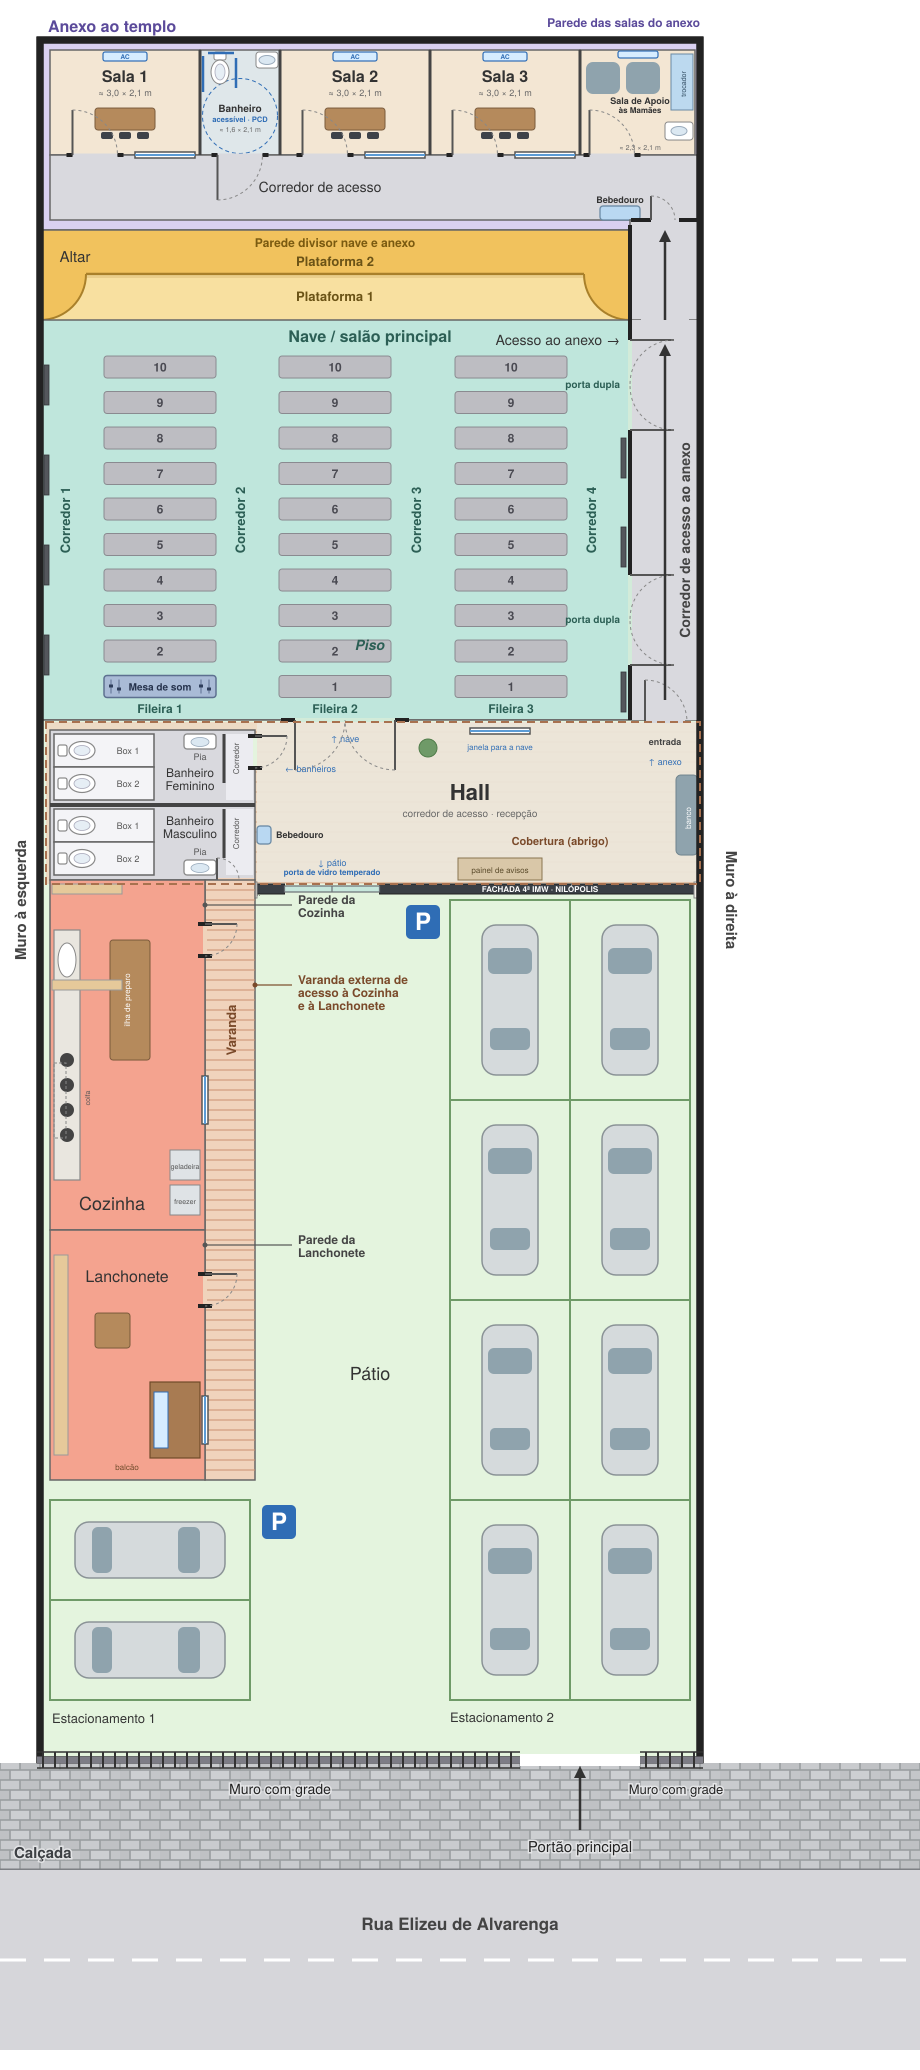
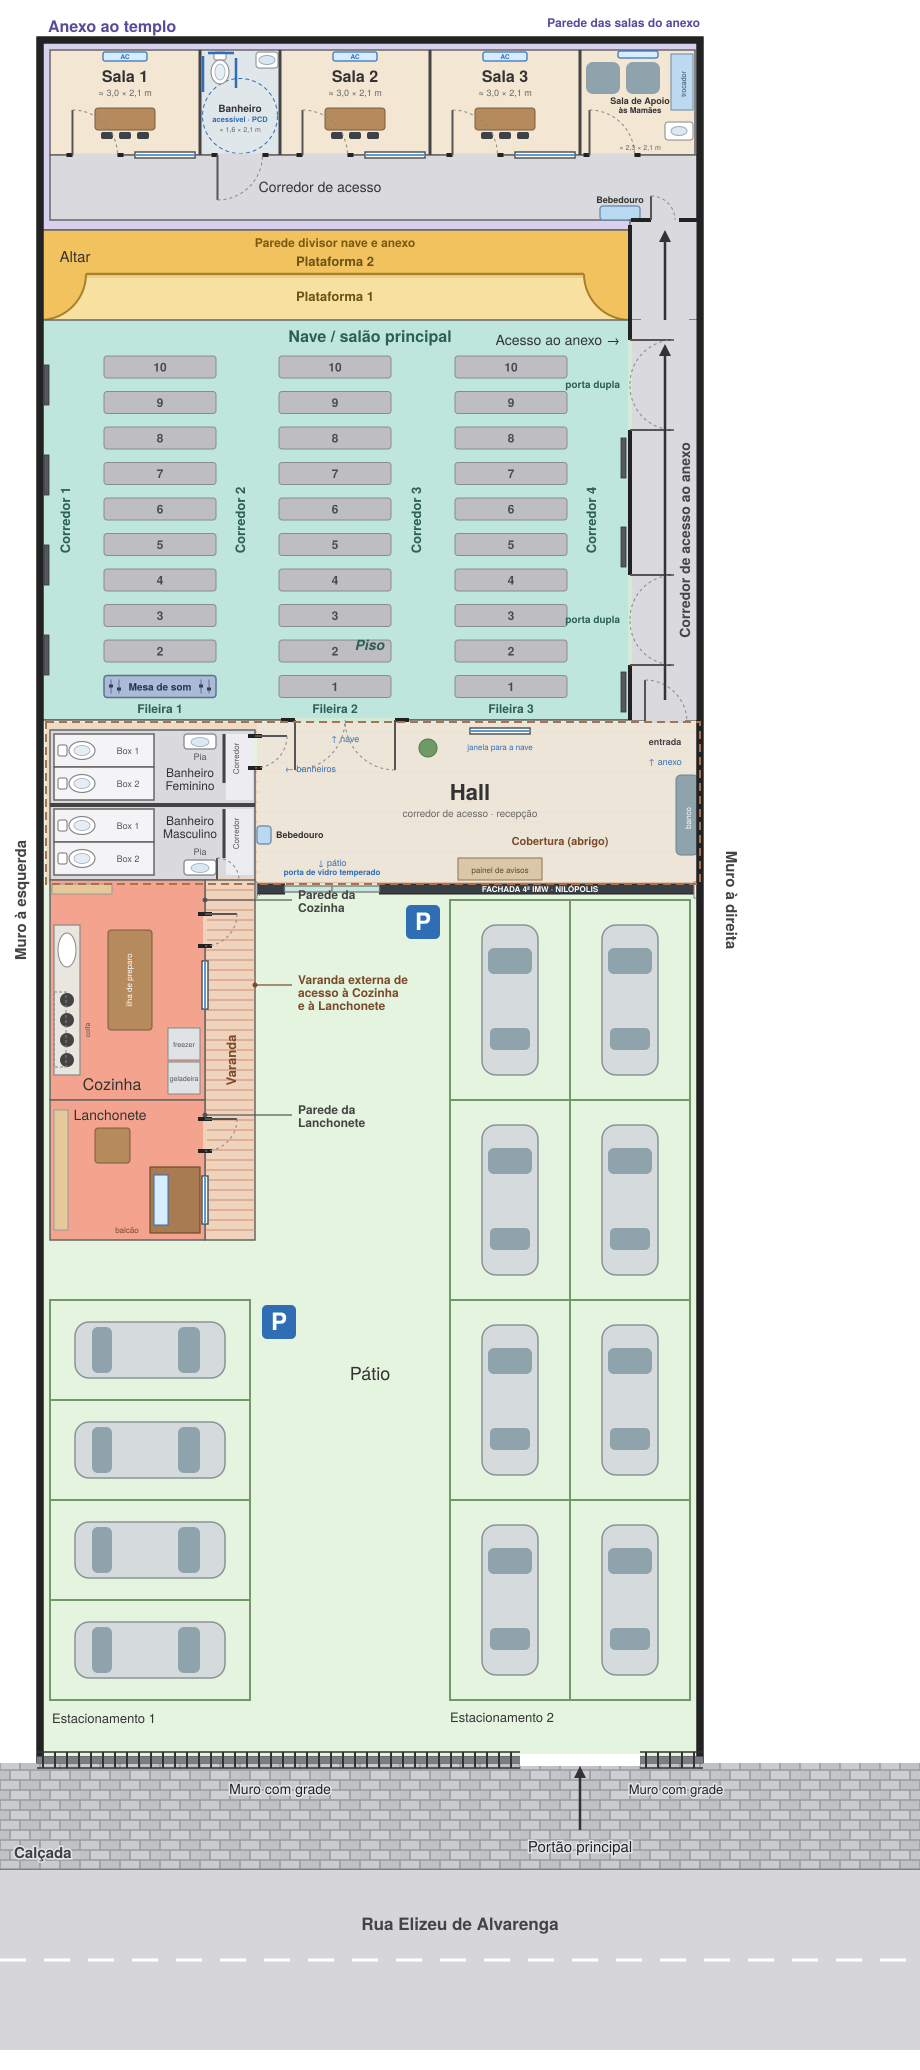
Maquete 3: Cozinha e Lanchonete menores; Estacionamento 1 com 4 vagas
Claude-Session: https://claude.ai/code/session_015gh4tS64wXyJ2ghbw66cFX

diff --git a/projeto3/maquete.html b/projeto3/maquete.html
@@ -56,7 +56,7 @@
 <div id="app">
   <div id="stage"><canvas id="c"></canvas></div>
   <aside id="side">
-    <div class="top"><h1>Maquete 3 · Visão 3D</h1><p>Pátio com 2 ambientes: Cozinha (maior) e Lanchonete</p></div>
+    <div class="top"><h1>Maquete 3 · Visão 3D</h1><p>Pátio com 2 ambientes menores (Cozinha e Lanchonete) e Estacionamento 1 com 4 vagas</p></div>
     <div class="tools">
   <button id="tRoof" class="on">Telhado</button>
   <button id="tLabels" class="on">Nomes</button>
@@ -696,17 +696,17 @@
   // ---------- Banheiros (box, vasos, pia, corredor) e Salas externas ----------
   rect(50, 730, 255, 880, 0.0, 0.1, C.bath, { cast: false });                // PROJETO 2: banheiros (trocados de lugar com a Sala de Apoio)
   rect(255, 722, 700, 884, 0.0, 0.1, 0xe3ddd0, { cast: false });                // PROJETO 2: Hall (corredor grande aberto, porcelanato claro)
-  rect(205, 880, 255, 1480, 0.0, 0.08, C.varanda, { cast: false });         // piso da varanda (PROJETO 2: prolongada até a Cantina)
-  rect(50, 880, 205, 1230, 0.0, 0.1, C.salaExt, { cast: false });            // MAQUETE 3: Cozinha (maior)
-  rect(50, 1230, 205, 1480, 0.0, 0.1, C.salaExt, { cast: false });           // MAQUETE 3: Lanchonete
+  rect(205, 880, 255, 1240, 0.0, 0.08, C.varanda, { cast: false });         // piso da varanda (PROJETO 2: prolongada até a Cantina)
+  rect(50, 880, 205, 1100, 0.0, 0.1, C.salaExt, { cast: false });            // MAQUETE 3: Cozinha (maior que a Lanchonete)
+  rect(50, 1100, 205, 1240, 0.0, 0.1, C.salaExt, { cast: false });           // MAQUETE 3: Lanchonete
   hwall(730, 50, 255, BH, [], 'HALF');   // paredes dos banheiros: mesmo azul claro das salas externas
   hwall(880, 50, 205, BH, [], 'HALF'); hwall(880, 205, 255, BH, [{ a: 207, b: 253, lh: 2.1 }], 'HALF');      // paredes das salas externas: azul mais claro
-  hwall(1230, 50, 205, BH, [], 'HALF'); hwall(1480, 50, 205, BH, [], 'HALF');   // MAQUETE 3: Cozinha e Lanchonete
-  vwall(50, 730, 880, BH, [], 'HALF'); vwall(50, 880, 1480, BH, [], 'HALF');
+  hwall(1100, 50, 205, BH, [], 'HALF'); hwall(1240, 50, 205, BH, [], 'HALF');   // MAQUETE 3: Cozinha e Lanchonete
+  vwall(50, 730, 880, BH, [], 'HALF'); vwall(50, 880, 1240, BH, [], 'HALF');
   vwall(255, 730, 880, BH, [{ a: 745, b: 790, lh: 2.1 }], 'HALF');   // PROJETO 2: porta da Sala de Apoio às Mamães   // portas: Feminino (cima) / Masculino (baixo)
 
-  vwall(205, 880, 1480, BH, [door(940), win(1100), door(1290), win(1420)], 'HALF');   // MAQUETE 3: portas e janelas da Cozinha e da Lanchonete (lado da varanda)
-  [940, 1290].forEach(function(c){ doorLeaf(false, 205, c); }); [1100, 1420].forEach(function(c){ winFrame(false, 205, c); });   // portas das salas externas + janela da Sala 2 externo (lado da varanda)
+  vwall(205, 880, 1240, BH, [door(930), win(985), door(1135), win(1200)], 'HALF');   // MAQUETE 3: portas e janelas da Cozinha e da Lanchonete (lado da varanda)
+  [930, 1135].forEach(function(c){ doorLeaf(false, 205, c); }); [985, 1200].forEach(function(c){ winFrame(false, 205, c); });   // portas das salas externas + janela da Sala 2 externo (lado da varanda)
   // ---- PROJETO 2: HALL (x410..590, y730..880), no lugar da antiga Sala de Apoio; acesso aberto pelo saguão ----
   winFrame(true, 720, 500);   // Hall aberto: sem paredes divisórias; janela na parede da nave
   // ---- PROJETO 2: banheiros iguais aos da IGREJA ATUAL (Feminino y730..805 / Masculino y805..880) ----
@@ -805,21 +805,21 @@
 
   // ---------- MAQUETE 3: interior da Cozinha (maior) e da Lanchonete ----------
   (function(){
-    // Cozinha (y880..1230): bancada longa com pia e fogão + coifa (parede oeste), geladeira, ilha de preparo, prateleiras
-    box(0.5, 0.9, 250 * S, 0xe9e6df, X(67), 0.45 + 0.08, Z(1055));
-    box(0.52, 0.04, 250 * S, 0xb9bcbe, X(67), 0.98, Z(1055));
-    var pia = new THREE.Mesh(new THREE.BoxGeometry(0.4, 0.08, 0.7), mat(0xc9ced3, { metalness: 0.6, roughness: 0.3 })); pia.position.set(X(67), 1.0, Z(960)); root.add(pia);
-    [1060, 1085, 1110, 1135].forEach(function(py, n){ var b = new THREE.Mesh(new THREE.CylinderGeometry(0.11, 0.11, 0.03, 16), mat(0x2b2e32)); b.position.set(X(67), 1.01, Z(py)); root.add(b); });
-    box(0.5, 0.35, 1.5, 0xb9bcbe, X(67), 2.05, Z(1098)); box(0.2, 0.5, 0.3, 0xb9bcbe, X(60), 2.4, Z(1098));
-    [905, 1000].forEach(function(py){ box(0.3, 0.7, 70 * S, 0xe6c99a, X(58), 1.95, Z(py)); });
-    box(0.7, 1.8, 0.7, 0xdfe3e6, X(185), 0.98, Z(1200)); box(0.7, 1.8, 0.7, 0xdfe3e6, X(185), 0.98, Z(1165));
-    box(0.9, 0.06, 2.4, 0xb58a5c, X(130), 0.92, Z(1060)); [-0.4, 0.4].forEach(function(o){ [-1.1, 1.1].forEach(function(p){ box(0.05, 0.9, 0.05, 0xdad7d0, X(130) + o, 0.47, Z(1060) + p); }); });
-    box(0.9, 0.04, 2.4, 0xdad7d0, X(130), 0.3, Z(1060));
-    // Lanchonete (y1230..1480): balcão de atendimento junto à janela, vitrine, prateleiras, mesa
-    box(1.0, 1.05, 76 * S, 0xa87b52, X(175), 0.6, Z(1420)); box(1.1, 0.05, 80 * S, 0xf4f2ec, X(175), 1.15, Z(1420));
-    box(0.5, 0.6, 0.9, 0xd6ecff, X(168), 1.45, Z(1420), null, { material: new THREE.MeshStandardMaterial({ color: 0xcfe6f3, transparent: true, opacity: 0.45, roughness: 0.1 }), cast: false });
-    box(0.35, 1.9, 200 * S, 0xe6c99a, X(61), 1.0, Z(1355)); [0.5, 1.0, 1.5].forEach(function(hh){ box(0.4, 0.04, 200 * S, 0xc9a87c, X(61), hh + 0.1, Z(1355)); });
-    box(0.7, 0.85, 0.7, 0xb58a5c, X(112), 0.5, Z(1330));
+    // Cozinha (y880..1100): bancada com pia e fogão + coifa (parede oeste), geladeira e freezer, ilha de preparo, armários altos
+    box(0.5, 0.9, 150 * S, 0xe9e6df, X(67), 0.45 + 0.08, Z(1000));
+    box(0.52, 0.04, 150 * S, 0xb9bcbe, X(67), 0.98, Z(1000));
+    var pia = new THREE.Mesh(new THREE.BoxGeometry(0.4, 0.08, 0.7), mat(0xc9ced3, { metalness: 0.6, roughness: 0.3 })); pia.position.set(X(67), 1.0, Z(950)); root.add(pia);
+    [1000, 1020, 1040, 1060].forEach(function(py, n){ var b = new THREE.Mesh(new THREE.CylinderGeometry(0.11, 0.11, 0.03, 16), mat(0x2b2e32)); b.position.set(X(67), 1.01, Z(py)); root.add(b); });
+    box(0.5, 0.35, 1.2, 0xb9bcbe, X(67), 2.05, Z(1030)); box(0.2, 0.5, 0.3, 0xb9bcbe, X(60), 2.4, Z(1030));
+    [945, 1000].forEach(function(py){ box(0.3, 0.7, 50 * S, 0xe6c99a, X(58), 1.95, Z(py)); });
+    box(0.7, 1.8, 0.7, 0xdfe3e6, X(185), 0.98, Z(1080)); box(0.7, 1.8, 0.7, 0xdfe3e6, X(185), 0.98, Z(1045));
+    box(0.9, 0.06, 2.0, 0xb58a5c, X(130), 0.92, Z(990)); [-0.4, 0.4].forEach(function(o){ [-0.9, 0.9].forEach(function(p){ box(0.05, 0.9, 0.05, 0xdad7d0, X(130) + o, 0.47, Z(990) + p); }); });
+    box(0.9, 0.04, 2.0, 0xdad7d0, X(130), 0.3, Z(990));
+    // Lanchonete (y1100..1240): balcão de atendimento junto à janela, vitrine, prateleiras, mesa
+    box(1.0, 1.05, 66 * S, 0xa87b52, X(175), 0.6, Z(1200)); box(1.1, 0.05, 70 * S, 0xf4f2ec, X(175), 1.15, Z(1200));
+    box(0.5, 0.6, 0.9, 0xd6ecff, X(168), 1.45, Z(1200), null, { material: new THREE.MeshStandardMaterial({ color: 0xcfe6f3, transparent: true, opacity: 0.45, roughness: 0.1 }), cast: false });
+    box(0.35, 1.9, 120 * S, 0xe6c99a, X(61), 1.0, Z(1170)); [0.5, 1.0, 1.5].forEach(function(hh){ box(0.4, 0.04, 120 * S, 0xc9a87c, X(61), hh + 0.1, Z(1170)); });
+    box(0.7, 0.85, 0.7, 0xb58a5c, X(112), 0.5, Z(1145));
   })();
 
   // ---------- Estacionamentos ----------
@@ -866,11 +866,11 @@
     board.position.set(X(xpx), 2.1, Z(ypx) + 0.06); root.add(board);
     var back = board.clone(); back.rotation.y = Math.PI; back.position.z = Z(ypx) - 0.06; root.add(back);
   }
-  // Estacionamento 1: 5 vagas horizontais (frente para a direita)
-  for (var i = 0; i <= 2; i++) line(50, 1500 + i * 100, 250, 1500 + i * 100);   // PROJETO 2: só 2 vagas (Cozinha e Cantina ocupam o restante)
-  line(50, 1500, 50, 1700); line(250, 1500, 250, 1700);
-  for (var r = 0; r < 2; r++) car(150, 1500 + r * 100 + 50, 0);
-  pSign(279, 1522);
+  // Estacionamento 1: MAQUETE 3: 4 vagas horizontais (frente para a direita), y1300..1700
+  for (var i = 0; i <= 4; i++) line(50, 1300 + i * 100, 250, 1300 + i * 100);
+  line(50, 1300, 50, 1700); line(250, 1300, 250, 1700);
+  for (var r = 0; r < 4; r++) car(150, 1300 + r * 100 + 50, 0);
+  pSign(279, 1322);
   // Estacionamento 2: 8 vagas verticais (4 fileiras x 2), frente para a nave (deslocado para trás: começa em y=900)
   for (var j = 0; j <= 4; j++) line(450, 900 + j * 200, 690, 900 + j * 200);
   [450, 570, 690].forEach(function(xv){ line(xv, 900, xv, 1700); });
@@ -909,11 +909,11 @@
     var slab = new THREE.Mesh(new THREE.BoxGeometry(155 * S, 0.16, 300 * S), mat(C.slab));
     slab.position.set(X(127.5), BH + 0.08, Z(1030)); slab.castShadow = true; roofGroup.add(slab);
     // PROJETO 2: laje da Cozinha/Cantina e prolongamento da varanda
-    var slab2 = new THREE.Mesh(new THREE.BoxGeometry(155 * S, 0.16, 300 * S), mat(C.slab));
-    slab2.position.set(X(127.5), BH + 0.08, Z(1330)); slab2.castShadow = true; roofGroup.add(slab2);
-    var van2 = new THREE.Mesh(new THREE.BoxGeometry(Math.sqrt((50 * S) * (50 * S) + 0.4 * 0.4), 0.1, 300 * S), ribMat(300 * S / 0.35, 1, true));
-    van2.rotation.z = -Math.atan(0.4 / (50 * S)); van2.position.set(X(230), BH - 0.15, Z(1330)); van2.castShadow = true; van2.receiveShadow = true; roofGroup.add(van2);
-    [1325, 1475].forEach(function(py){ box(0.14, BH - 0.4, 0.14, C.trim, X(252), (BH - 0.4) / 2, Z(py), roofGroup); });
+    var slab2 = new THREE.Mesh(new THREE.BoxGeometry(155 * S, 0.16, 60 * S), mat(C.slab));
+    slab2.position.set(X(127.5), BH + 0.08, Z(1210)); slab2.castShadow = true; roofGroup.add(slab2);
+    var van2 = new THREE.Mesh(new THREE.BoxGeometry(Math.sqrt((50 * S) * (50 * S) + 0.4 * 0.4), 0.1, 60 * S), ribMat(60 * S / 0.35, 1, true));
+    van2.rotation.z = -Math.atan(0.4 / (50 * S)); van2.position.set(X(230), BH - 0.15, Z(1210)); van2.castShadow = true; van2.receiveShadow = true; roofGroup.add(van2);
+    [1237].forEach(function(py){ box(0.14, BH - 0.4, 0.14, C.trim, X(252), (BH - 0.4) / 2, Z(py), roofGroup); });
     // cobertura (telhado) sobre os 2 banheiros e o acesso ao bebedouro: abrigo antes da nave (cai para frente)
     var cw = (700 - 46) * S, cd = (884 - 722) * S, drop = 0.35;
     var cob = new THREE.Mesh(new THREE.BoxGeometry(cw, 0.1, Math.sqrt(cd * cd + drop * drop)), ribMat(cw / 0.35, 1));
@@ -936,7 +936,7 @@
       for (var i = 1; i < n; i++){ var f = -0.5 + i / n; bar(bx, h, 0.012, f * w, 0); bar(w, bx, 0.012, 0, f * h); }
       for (var k = 0; k < n; k++){ var q = -0.5 + (k + 0.5) / n; box(0.05, 0.05, 0.016, white, horiz ? X(c) + q * w : X(fixed) + off, y0 + h / 2 + q * h * 0, horiz ? Z(fixed) + off : Z(c) + q * w, null, { cast: false }); }   // detalhes de cruzamento
     }
-    grille(false, 205, 1100, 0.13); grille(false, 205, 1420, 0.13);   // MAQUETE 3: janelas da Cozinha e da Lanchonete
+    grille(false, 205, 985, 0.13); grille(false, 205, 1200, 0.13);   // MAQUETE 3: janelas da Cozinha e da Lanchonete
     // split (ar-condicionado) na parede; rot = direção da frente
     function split(x, y, z, rot){
       var g = new THREE.Group();
@@ -994,7 +994,7 @@
     });
     [380, 520, 650].forEach(function(py){ lamp(665, py, 0.9, 0.22); });   // PROJETO 2: corredor
     // salas externas 1 e 2
-    isopor(50, 880, 205, 1230); isopor(50, 1230, 205, 1480);
+    isopor(50, 880, 205, 1100); isopor(50, 1100, 205, 1240);
     lampRound(127, 955); lampRound(127, 1105); lampRound(127, 1255); lampRound(127, 1405);
     // banheiros (feminino e masculino)
     isopor(50, 730, 255, 880); isopor(255, 722, 700, 884);   // PROJETO 2: banheiros e Hall
@@ -1040,8 +1040,8 @@
   label('Mesa de som', 160, 687, 1.7, 2.4);
   label('Acesso ao anexo', 665, 270, 6.2, 3.2); label('Corredor de acesso ao anexo', 665, 520, 3.4, 3.4);
   label('Hall', 470, 805, 3.0, 1.8); label('Fachada 4ª IMW', 500, 925, 3.6, 3.0); label('Banheiro Feminino', 120, 767, 3.6, 3.0); label('Banheiro Masculino', 120, 842, 3.6, 3.0);
-  label('Varanda', 230, 1130, 3.4, 1.6);
-  label('Cozinha', 127, 1055, 3.1, 1.9); label('Lanchonete', 127, 1355, 3.4, 1.9);
+  label('Varanda', 230, 1060, 3.4, 1.6);
+  label('Cozinha', 127, 1000, 3.1, 1.9); label('Lanchonete', 127, 1170, 3.4, 1.9);
   label('Cobertura (abrigo)', 332, 790, 3.7, 3.0);
   label('Bebedouro', 375, 800, 2.0, 2.0);
   label('Estacionamento 1', 150, 1680, 2.2, 3.0); label('Estacionamento 2', 570, 1735, 2.2, 3.0);
@@ -1062,7 +1062,7 @@
     { id: 'forro',   name: 'Forro e luzes',   pos: [0, 1.6, -5], tgt: [0, 2.7, -12], roof: true, labels: false, fp: true },
     { id: 'corredor', name: 'Corredor (anexo)', pos: [5.9, 1.65, -4.4], tgt: [5.9, 1.5, -13.4], roof: false, labels: false, fp: true },
     { id: 'naveal',  name: 'Nave de cima',    pos: [1.5, 15, -2], tgt: [1.5, 0, -8.5], roof: false, labels: true },
-    { id: 'cantina', name: 'Cozinha e Lanchonete', pos: [-3.6, 15, 11.2], tgt: [-3.6, 0, 6.2], roof: false, labels: true },
+    { id: 'cantina', name: 'Cozinha e Lanchonete', pos: [-3.6, 15, 8.8], tgt: [-3.6, 0, 3.8], roof: false, labels: true },
     { id: 'apoio',   name: 'Hall e banheiros', pos: [-1.0, 17, 4.5], tgt: [-1.0, 0, -1.8], roof: false, labels: true },
     { id: 'anexosalas', name: 'Salas do anexo', pos: [0.6, 12, -8.6], tgt: [0.6, 0, -15.2], roof: false, labels: true },
     { id: 'fachada', name: 'Fachada', pos: [1.8, 3.6, 12], tgt: [0.4, 1.9, -0.3], roof: true, labels: false },
@@ -1080,9 +1080,9 @@
     { id: 'bfem', name: 'Banheiro Feminino', g: 'Banheiros e hall', pos: [-2.7, 1.65, -2.16], tgt: [-5.8, 1.2, -2.5], roof: true, labels: false, fp: true },
     { id: 'bmasc', name: 'Banheiro Masculino', g: 'Banheiros e hall', pos: [-2.5, 1.65, -0.64], tgt: [-5.6, 1.2, -1.3], roof: true, labels: false, fp: true },
     { id: 'hallfp', name: 'Hall', g: 'Banheiros e hall', pos: [5.2, 1.65, -1.2], tgt: [-1.0, 1.4, -2.0], roof: true, labels: false, fp: true },
-    { id: 'varanda', name: 'Varanda', g: 'Pátio (ambientes)', pos: [-2.8, 1.65, 0.0], tgt: [-2.8, 1.5, 11.0], roof: true, labels: false, fp: true },
-    { id: 'cozinhae', name: 'Cozinha', g: 'Pátio (ambientes)', pos: [-3.5, 1.65, 0.6], tgt: [-6.0, 1.1, 4.4], roof: true, labels: false, fp: true },
-    { id: 'cantinae', name: 'Lanchonete', g: 'Pátio (ambientes)', pos: [-3.5, 1.65, 7.0], tgt: [-6.2, 1.1, 10.7], roof: true, labels: false, fp: true },
+    { id: 'varanda', name: 'Varanda', g: 'Pátio (ambientes)', pos: [-2.8, 1.65, 0.0], tgt: [-2.8, 1.5, 7.0], roof: true, labels: false, fp: true },
+    { id: 'cozinhae', name: 'Cozinha', g: 'Pátio (ambientes)', pos: [-3.5, 1.65, 0.5], tgt: [-6.0, 1.1, 3.4], roof: true, labels: false, fp: true },
+    { id: 'cantinae', name: 'Lanchonete', g: 'Pátio (ambientes)', pos: [-3.5, 1.65, 4.3], tgt: [-6.2, 1.1, 6.4], roof: true, labels: false, fp: true },
     { id: 'anexocorr', name: 'Corredor do anexo (leste-oeste)', g: 'Anexo', pos: [-5.8, 1.65, -14.24], tgt: [6.4, 1.5, -14.24], roof: true, labels: false, fp: true },
     { id: 'sala1a', name: 'Sala 1 (anexo)', g: 'Anexo', pos: [-3.8, 1.65, -15.04], tgt: [-6.2, 1.3, -16.5], roof: true, labels: false, fp: true },
     { id: 'wcanexo', name: 'Banheiro acessível (anexo)', g: 'Anexo', pos: [-2.0, 1.65, -15.04], tgt: [-3.1, 1.1, -16.6], roof: true, labels: false, fp: true },

diff --git a/index.html b/index.html
@@ -114,13 +114,13 @@
   <div class="panel" id="projeto3">
     <section>
       <h2>Maquete 3 — Visão 3D</h2>
-      <p class="sub">Parte da Maquete 2 (a mais bem aceita na reunião) com as mudanças propostas. 1ª mudança: o pátio passa a ter somente 2 ambientes, Cozinha (maior) e Lanchonete (Cantina). Dica: use as vistas <b>Cozinha e Lanchonete</b>, <b>Pátio</b> e, no menu 👁, <b>Pátio (ambientes)</b>.</p>
+      <p class="sub">Parte da Maquete 2 (a mais bem aceita na reunião) com as mudanças propostas. Mudanças até agora: o pátio tem somente 2 ambientes, Cozinha (maior) e Lanchonete (Cantina), ambos em tamanho reduzido; com isso o Estacionamento 1 passou de 2 para 4 vagas. Dica: use as vistas <b>Cozinha e Lanchonete</b>, <b>Pátio</b> e, no menu 👁, <b>Pátio (ambientes)</b>.</p>
       <iframe class="frame" data-src="projeto3/maquete.html" title="Visão 3D da Maquete 3" allowfullscreen></iframe>
       <div class="btns"><a class="btn" href="projeto3/maquete.html" target="_blank" rel="noopener">Abrir em tela cheia</a></div>
     </section>
     <section>
       <h2>Maquete 3 — Planta baixa</h2>
-      <p class="sub">Planta esquemática, sem medidas, com a Cozinha e a Lanchonete no pátio.</p>
+      <p class="sub">Planta esquemática, sem medidas, com a Cozinha e a Lanchonete no pátio e o Estacionamento 1 com 4 vagas.</p>
       <div class="planta"><a href="projeto3/planta.png" target="_blank" rel="noopener"><img src="projeto3/planta.png" alt="Planta baixa da Maquete 3" loading="lazy"></a></div>
       <div class="btns"><a class="btn alt" href="projeto3/planta.png" download>Baixar a planta (PNG)</a></div>
     </section>
